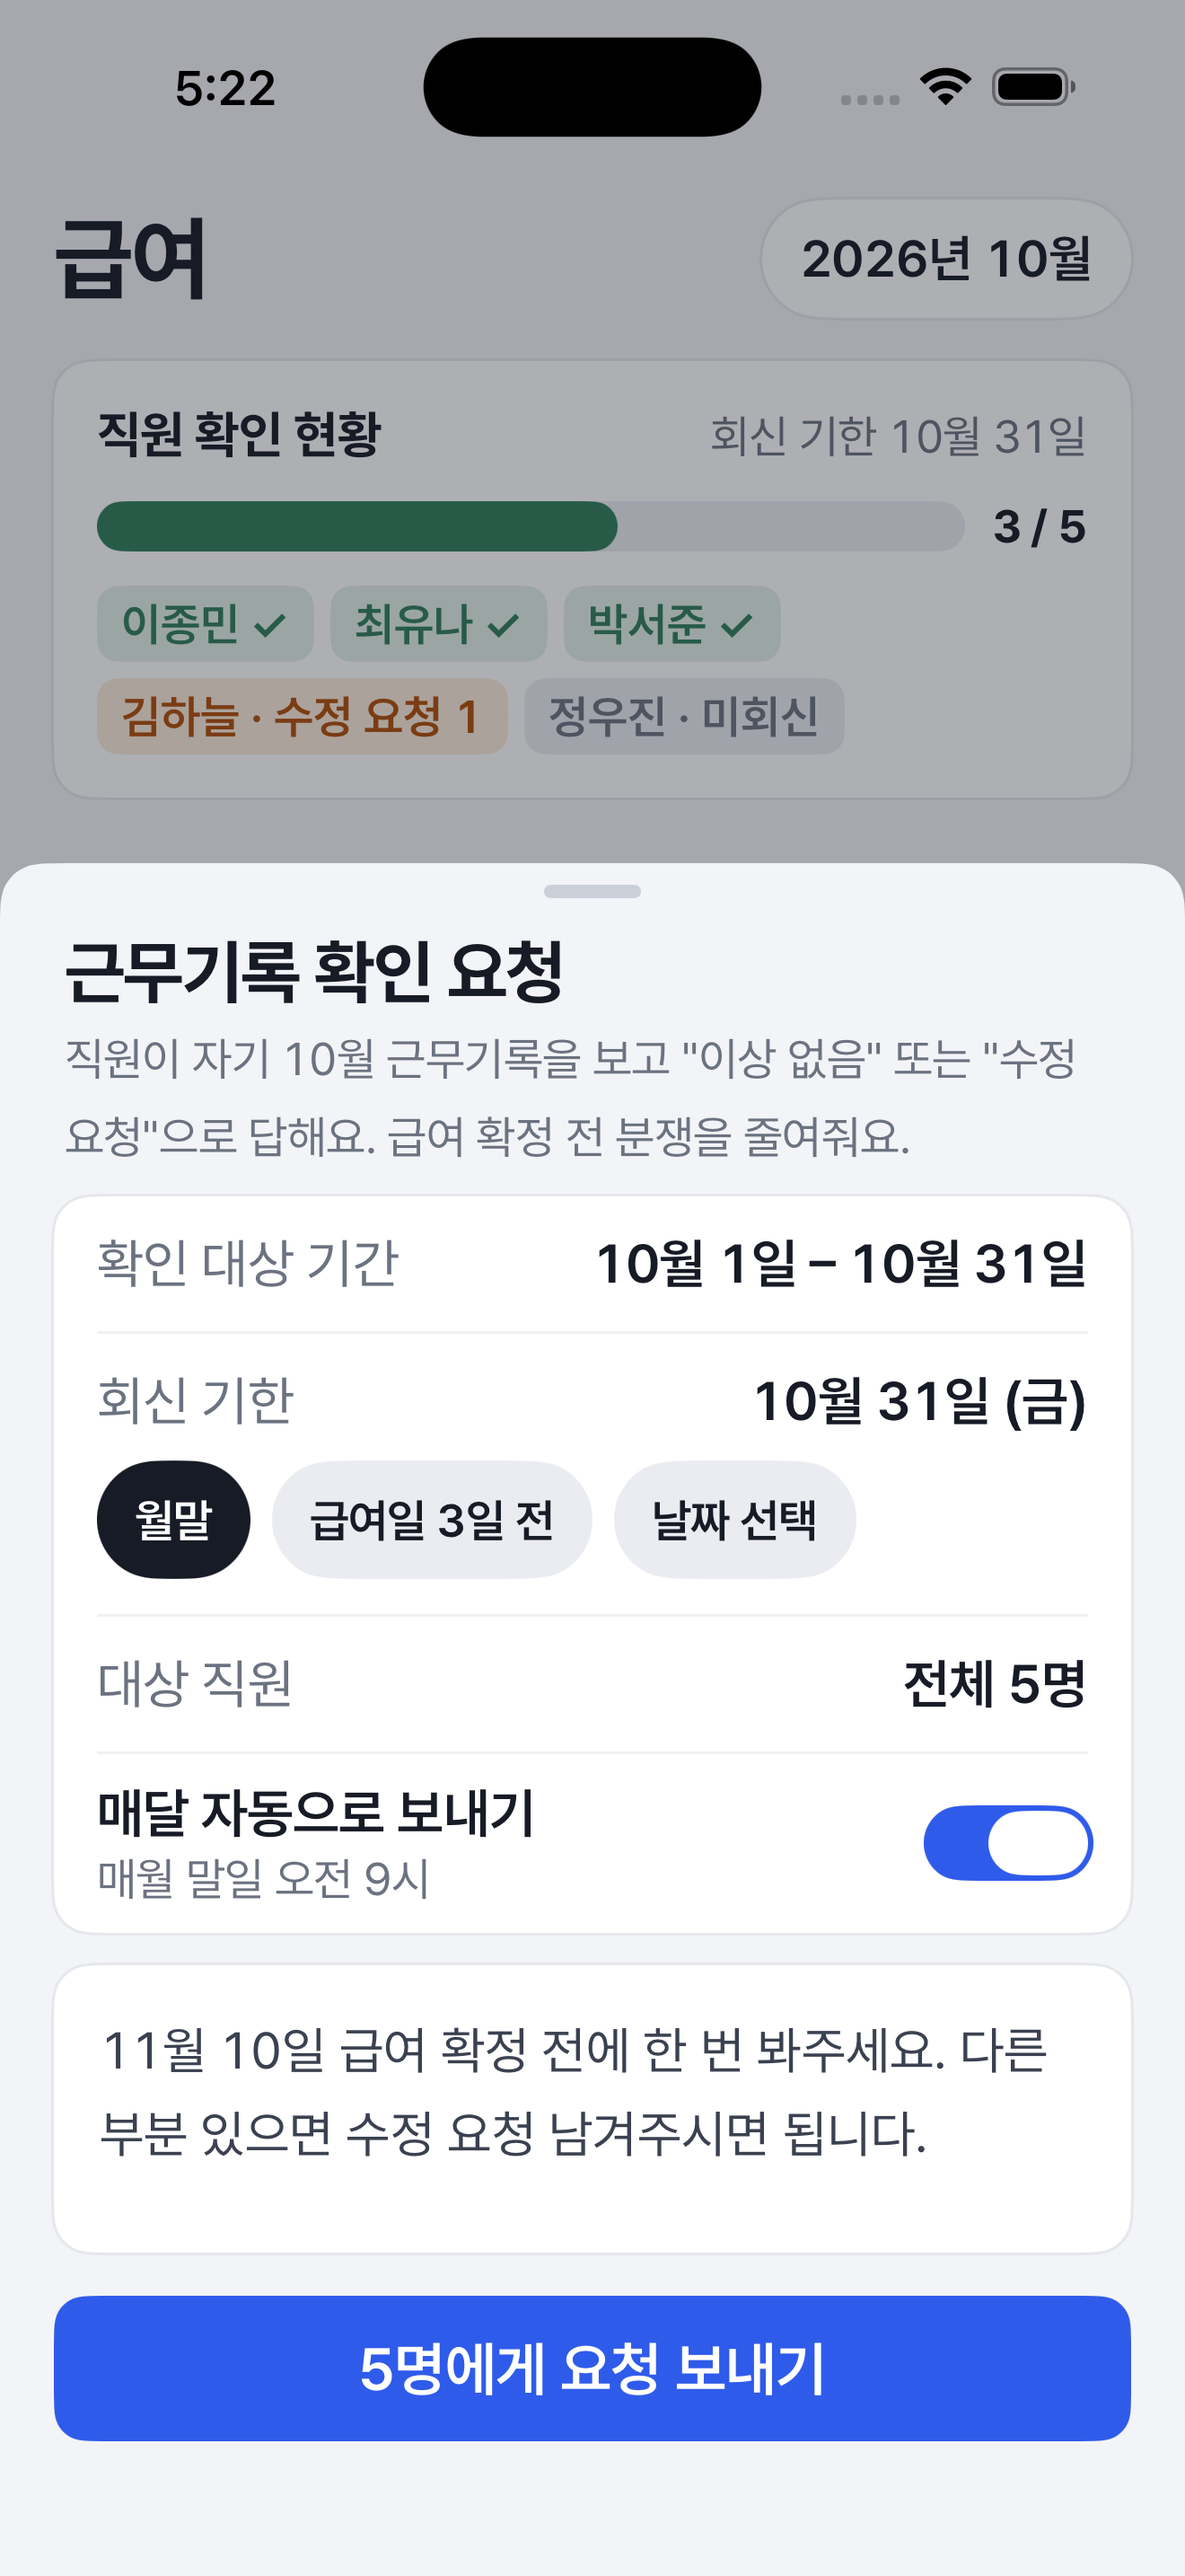
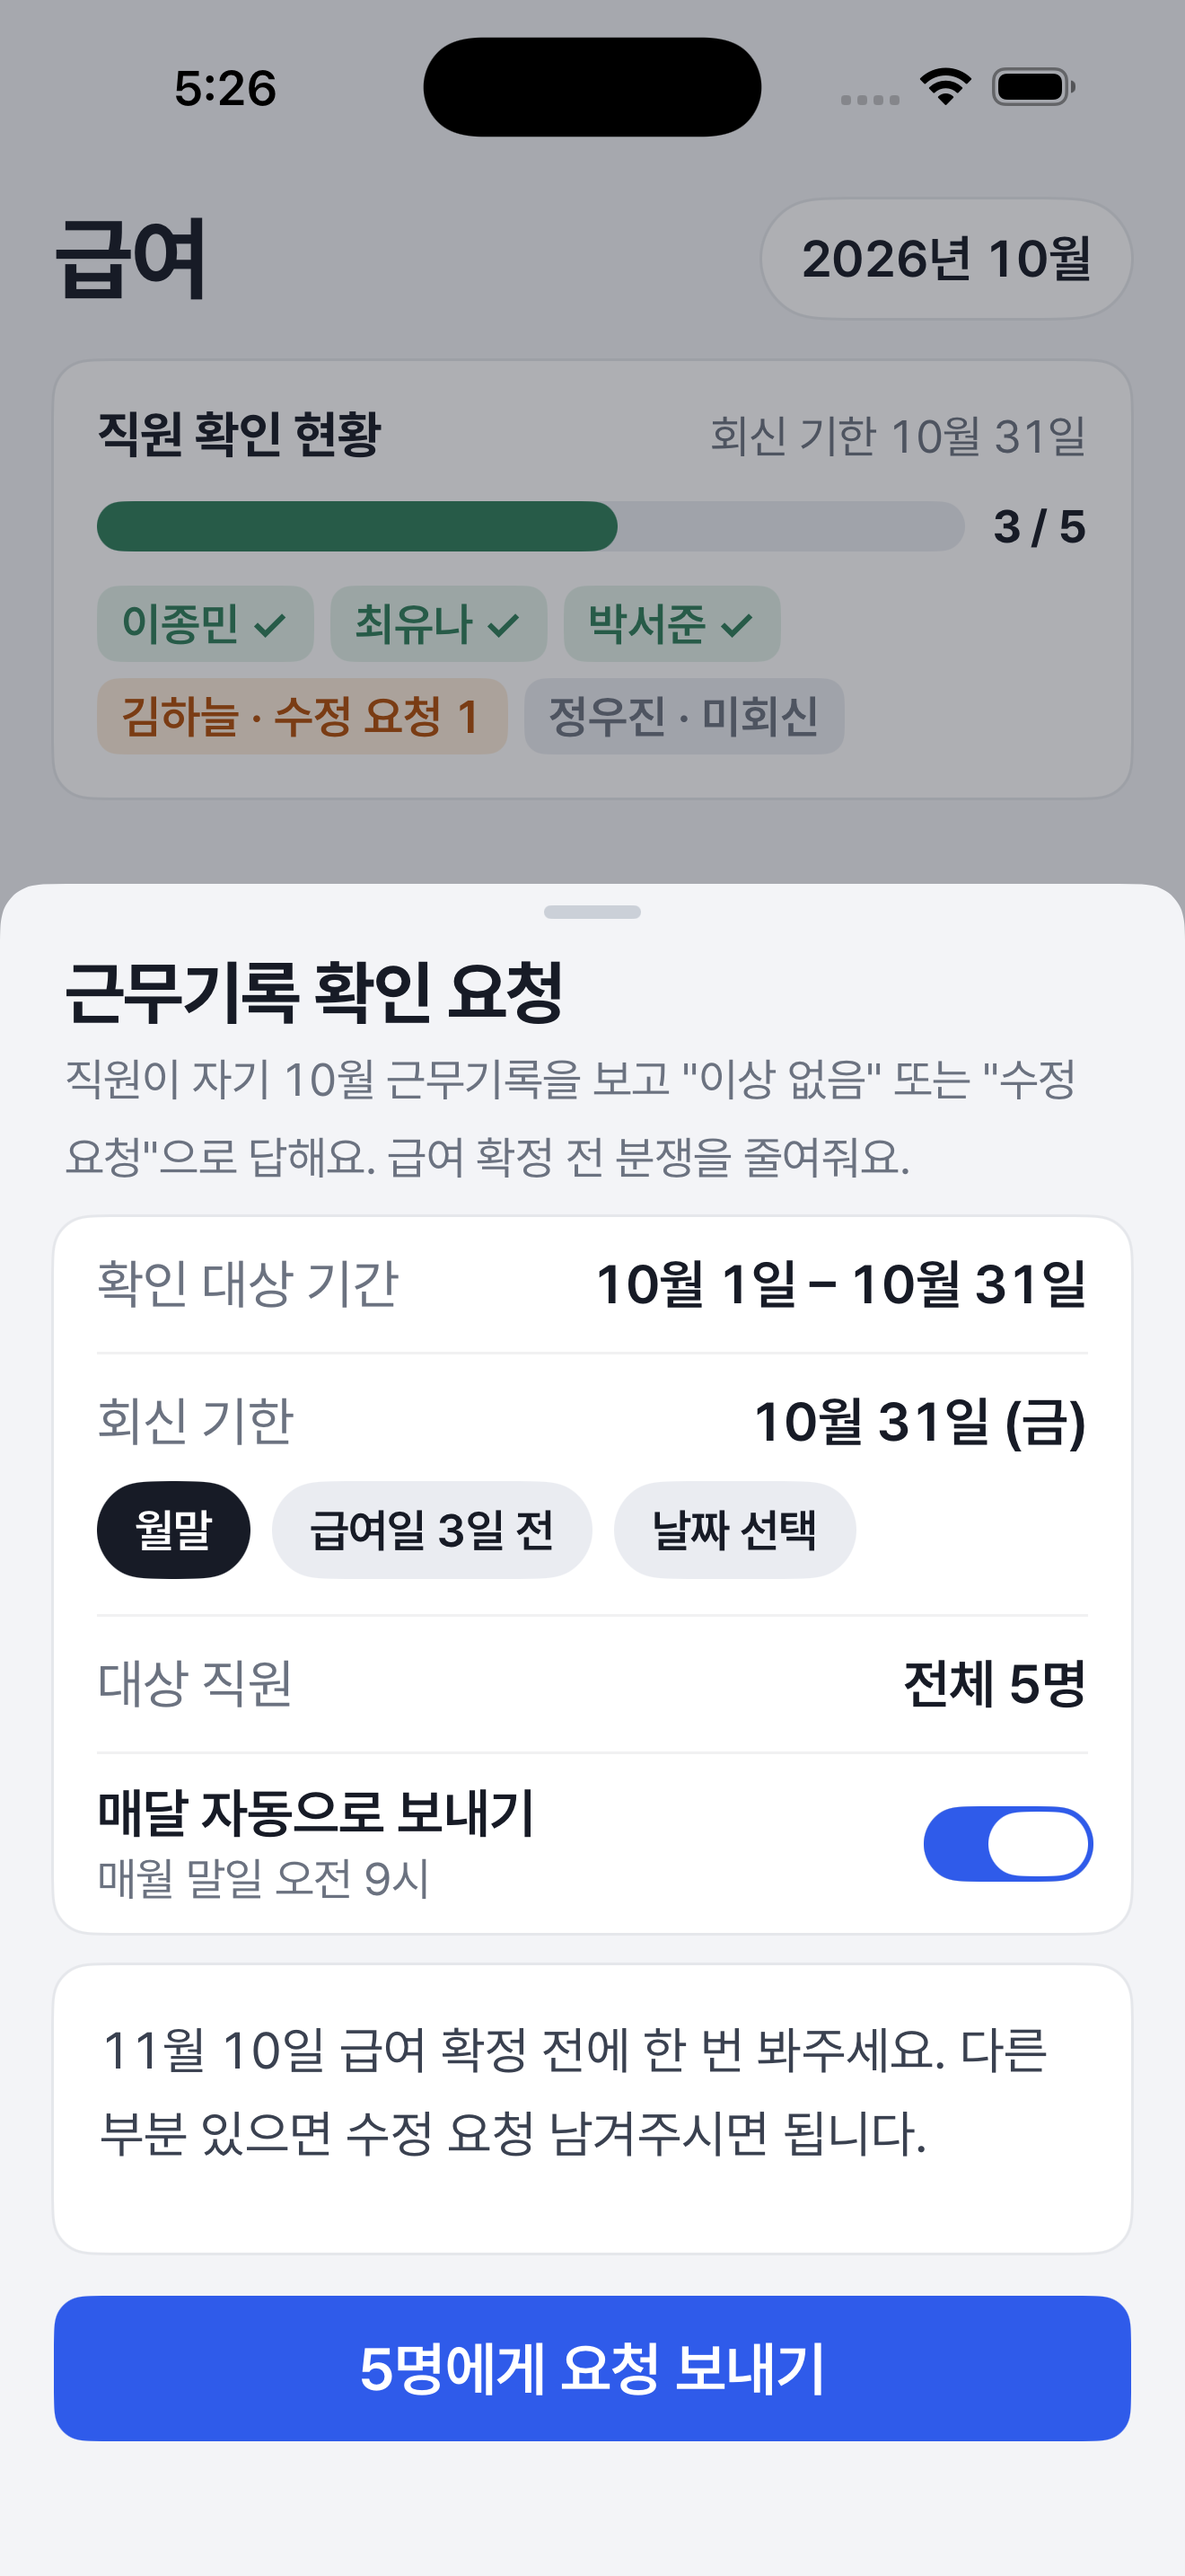
fix(payroll): 근무기록 확인 요청 시트(1ad) QA 반영 · 비교표
- 전송 실패 시 처리 중을 풀어 다시 보낼 수 있게(failSend, QA 높음)
- 「날짜 선택」은 날짜를 고르기 전엔 보내기 비활성
- 토글 애니메이션 동작 줄이기(M22), 알약 보이는 높이 원문(약 31) · 누름 44
- 테스트 추가, 비교표 1ad

Refs #96

Changed region(s): [[0.0311, 0.3103, 1.0, 0.6206], [0.2485, 0.5586, 0.4659, 0.6206], [0.0, 0.3414, 0.0311, 0.3724]]

diff --git a/Pum/Pum/Features/Payroll/RecordReviewRequest/RecordReviewRequestSheet.swift b/Pum/Pum/Features/Payroll/RecordReviewRequest/RecordReviewRequestSheet.swift
@@ -3,7 +3,7 @@ import SwiftUI
 
 /// 화면 전용 상수 — 토큰에 없는 값(DEC-005)
 enum RecordReviewRequestLocal {
-    /// 메시지 입력칸 최소 높이(목업 약 84 → 세 줄 이상) — space-24 × 4 = 96
+    /// 메시지 입력칸 높이(TextEditor는 세로로 늘어나려 해 높이를 정한다)
     static let messageMinHeight: CGFloat = PumTokens.Space.s16 * 5 // 원문 두 줄 + 안쪽 여백(약 80)
 }
 
@@ -12,6 +12,7 @@ struct RecordReviewRequestSheet: View {
     var onSend: () -> Void = {}
     var onPickDate: () -> Void = {}
 
+    @Environment(\.accessibilityReduceMotion) private var reduceMotion
     @ScaledMetric(relativeTo: .footnote) private var messageMinHeight = RecordReviewRequestLocal.messageMinHeight
 
     var body: some View {
@@ -48,7 +49,7 @@ struct RecordReviewRequestSheet: View {
                 autoSendRow
             }
         }
-        .animation(PumMotion.fast, value: state.autoSends) // M2
+        .animation(PumMotion.respecting(reduceMotion, PumMotion.fast), value: state.autoSends) // M2 · M22
     }
 
     private var divider: some View {
@@ -155,9 +156,9 @@ struct RecordReviewRequestPill: View {
             Text(title).pumText(.footnote, weight: .semibold)
                 .foregroundStyle(isOn ? Color.white : PumColor.textPrimary)
                 .padding(.horizontal, PumTokens.Space.s14)
-                .frame(minHeight: PumTokens.Size.tapMin)
+                .padding(.vertical, PumTokens.Space.s8) // 원문 알약 높이 약 31 — 누르는 영역은 아래 contentShape로 44 이상
                 .background(isOn ? PumColor.textPrimary : PumColor.surfaceFill, in: Capsule())
-                .contentShape(Capsule())
+                .contentShape(Rectangle().inset(by: -PumTokens.Space.s8))
         }
         .buttonStyle(.plain)
         .accessibilityLabel(Text(title))

diff --git a/Pum/Pum/Features/Payroll/RecordReviewRequest/RecordReviewRequestModel.swift b/Pum/Pum/Features/Payroll/RecordReviewRequest/RecordReviewRequestModel.swift
@@ -80,7 +80,10 @@ nonisolated struct RecordReviewRequestState: Equatable, Sendable {
     var progressText: String { "\(repliedCount) / \(totalCount)" }
     var progressFraction: Double { totalCount > 0 ? min(1, Double(repliedCount) / Double(totalCount)) : 0 }
     var sendTitle: String { "\(targetCount)명에게 요청 보내기" }
-    var canSend: Bool { targetCount > 0 && !isSending }
+    /// 대상이 있고, 「날짜 선택」이면 고른 날짜가 있어야(빈 기한으로 보내지 않게)
+    var canSend: Bool {
+        targetCount > 0 && !isSending && !(choice == .custom && (customDeadline ?? "").isEmpty)
+    }
 
     /// VoiceOver 한 문장 — 「직원 확인 현황, 5명 중 3명 회신, 김하늘 수정 요청 1건, 정우진 미회신」
     var statusAccessibilityLabel: String {
@@ -101,6 +104,9 @@ nonisolated struct RecordReviewRequestState: Equatable, Sendable {
         isSending = true
         return true
     }
+
+    /// 보내기 실패 — 처리 중을 풀어 다시 보낼 수 있게(실패 안내 문구는 디자인 없음, 연결 때)
+    mutating func failSend() { isSending = false }
 
     /// 원문 캡처(시트 열림 · 「월말」 선택 · 자동 보내기 켜짐) — 가짜 예시 값
     static let sample = RecordReviewRequestState(

diff --git a/Pum/PumTests/Features/Payroll/RecordReviewRequestTests.swift b/Pum/PumTests/Features/Payroll/RecordReviewRequestTests.swift
@@ -11,9 +11,9 @@ struct RecordReviewRequestTests {
         n.choice = .beforePayday
         #expect(n.deadlineText == "11월 7일 (금)")
         n.choice = .custom
-        #expect(n.deadlineText == "")
+        #expect(n.deadlineText == "" && !n.canSend) // 날짜를 고르기 전엔 보낼 수 없다
         n.customDeadline = "11월 3일 (월)"
-        #expect(n.deadlineText == "11월 3일 (월)")
+        #expect(n.deadlineText == "11월 3일 (월)" && n.canSend)
         #expect(RecordReviewDeadlineChoice.allCases.map(\.title) == ["월말", "급여일 3일 전", "날짜 선택"])
     }
 
@@ -50,5 +50,15 @@ struct RecordReviewRequestTests {
         z.targetCount = 0
         let none = z.beginSend()
         #expect(!none && !z.isSending)
+    }
+
+    @Test func 실패하면_다시_보낼_수_있다() {
+        var n = s
+        let first = n.beginSend()
+        let again = n.beginSend()
+        #expect(first && !again)
+        n.failSend()
+        let retry = n.beginSend()
+        #expect(retry)
     }
 }

diff --git a/docs/design/compare/screens/README.md b/docs/design/compare/screens/README.md
@@ -364,3 +364,13 @@
 | 전화 버튼 표시 기준 | 원문은 이종민만 | 서버 플래그 | 디자인 확인 필요 |
 | 큰 글자 | 디자인 없음 | 시급 · 상태를 이름 아래로, 시급은 줄이지 않음(QA) | 구현 기준 |
 | 근무 시각 | 「17–22」 | 정수 시(時) — 17:30 같은 값은 서버 형식 정해지면(후속) | 후속 |
+
+## UI-IOS-1ad 급여 확정 전 확인 요청 시트 — 사장님 (#96 · 배치 16)
+
+| 항목 | 디자인 | 구현 | 결과 |
+|---|---|---|---|
+| 배치 · 문구 | 뒤 화면(급여 · 월 · 직원 확인 현황 · 막대 · 사람 칩) / 시트(근무기록 확인 요청 · 설명 · 기간 · 회신 기한 + 알약 3 · 대상 직원 · 매달 자동 · 메시지 · N명에게 요청 보내기) | 같음(공통 C9 시트) | 일치 |
+| 시트 높이 | 내용만큼 | 1차 구현 메시지 칸이 늘어나 화면 끝까지 → **칸 높이 고정** | 수정 후 일치 |
+| 알약 높이 | 약 31 | 1차 구현 44 → **보이는 높이 31 · 누름 44** | 수정 후 일치 |
+| 「날짜 선택」 | 디자인 없음 | 날짜를 고르기 전엔 보내기 비활성(QA) | 구현 기준 |
+| 전송 실패 | 디자인 없음 | 처리 중을 풀어 다시 보낼 수 있게(문구 없음) | 디자인 필요 |
